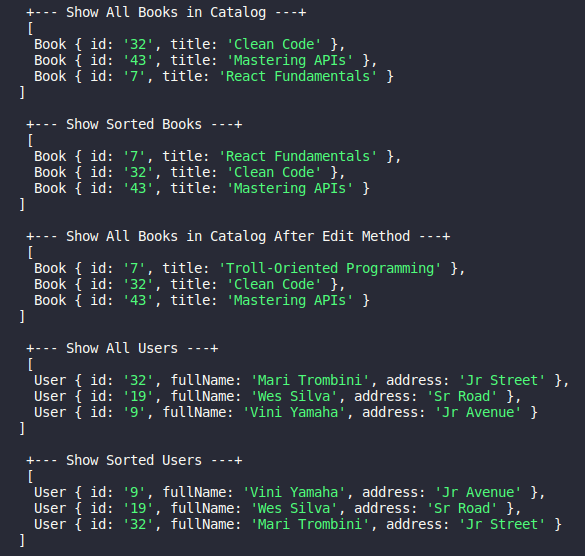
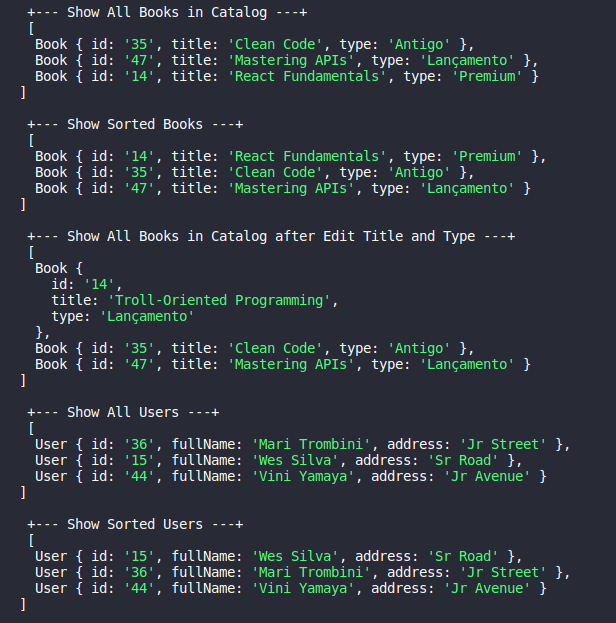
including type and refactoring edit method

diff --git a/src/index.ts b/src/index.ts
@@ -1,9 +1,25 @@
+import { BookService } from "Books/BookService";
 import { Facade } from "./Facade";
 
-const book1 = "Clean Code";
-const book2 = "Mastering APIs";
-const book3 = "React Fundamentals";
-const changedBook = "Troll-Oriented Programming";
+const book1 = {
+  title: "",
+  type: "",
+};
+
+const book2 = {
+  title: "",
+  type: "",
+};
+
+const book3 = {
+  title: "",
+  type: "",
+};
+
+const changedBook = {
+  title: "Troll-Oriented Programming",
+  type: "Lançamento",
+};
 
 const user1 = {
   fullName: "Mari Trombini",
@@ -22,9 +38,15 @@ const user3 = {
 
 //ADD BOOK
 const facade = new Facade();
-facade.addBookToCatalog(book1);
-facade.addBookToCatalog(book2);
-facade.addBookToCatalog(book3);
+facade.addBookToCatalog((book1.title = "Clean Code"), (book1.type = "Antigo"));
+facade.addBookToCatalog(
+  (book2.title = "Mastering APIs"),
+  (book2.type = "Lançamento")
+);
+facade.addBookToCatalog(
+  (book3.title = "React Fundamentals"),
+  (book3.type = "Premium")
+);
 
 //SHOW ALL BOOKS
 console.log(
@@ -39,14 +61,18 @@ console.log("\n +--- Show Sorted Books ---+ \n", facade.findSortedBooks());
 const bookId = facade.showAllBooksInCatalog()[0].id;
 const bookId2 = facade.showAllBooksInCatalog()[1].id;
 const bookId3 = facade.showAllBooksInCatalog()[2].id;
-facade.editBookInCatalog(bookId, changedBook);
 
 const bookTitle = facade.showAllBooksInCatalog()[0].title;
 const bookTitle2 = facade.showAllBooksInCatalog()[1].title;
 const bookTitle3 = facade.showAllBooksInCatalog()[2].title;
 
+const bookType = facade.showAllBooksInCatalog()[0].type;
+const bookType2 = facade.showAllBooksInCatalog()[1].type;
+const bookType3 = facade.showAllBooksInCatalog()[2].type;
+
+facade.editBookInCatalog(bookId, changedBook.title, changedBook.type);
 console.log(
-  "\n +--- Show All Books in Catalog After Edit Method ---+ \n",
+  "\n +--- Show All Books in Catalog after Edit Title and Type ---+ \n",
   facade.showAllBooksInCatalog()
 );
 
@@ -70,7 +96,8 @@ const rent1 = {
   userId: userId,
   userName: user1.fullName,
   bookId: bookId,
-  bookTitle: bookTitle,
+  bookTitle: changedBook.title,
+  bookType: changedBook.type,
   upto: "2022/05/13'",
 };
 
@@ -79,6 +106,7 @@ const rent2 = {
   userName: user2.fullName,
   bookId: bookId2,
   bookTitle: bookTitle2,
+  bookType: bookType2,
   upto: "2022/04/24'",
 };
 
@@ -87,6 +115,7 @@ const rent3 = {
   userName: user3.fullName,
   bookId: bookId3,
   bookTitle: bookTitle3,
+  bookType: bookType3,
   upto: "2022/06/30'",
 };
 
@@ -96,6 +125,7 @@ facade.rent(
   rent1.userName,
   rent1.bookId,
   rent1.bookTitle,
+  rent1.bookType,
   rent1.upto
 );
 
@@ -104,6 +134,7 @@ facade.rent(
   rent2.userName,
   rent2.bookId,
   rent2.bookTitle,
+  rent2.bookType,
   rent2.upto
 );
 
@@ -112,6 +143,7 @@ facade.rent(
   rent3.userName,
   rent3.bookId,
   rent3.bookTitle,
+  rent3.bookType,
   rent3.upto
 );
 

diff --git a/src/ILFacade/ILFacade.ts b/src/ILFacade/ILFacade.ts
@@ -8,7 +8,7 @@ export interface ILibraryFacade {
         - O 'title' deve ser menor que 100 caracteres
         - O 'title' não pode ser vazio ou nulo
     */
-  addBookToCatalog(title: string): void;
+  addBookToCatalog(title: string, type: string): void;
 
   /*
       Método utilizado para editar o título de um livro do catálogo da biblioteca
@@ -16,7 +16,7 @@ export interface ILibraryFacade {
         - O 'title' não pode ser vazio ou nulo
         - O 'id' do livro deve estar presente no catálogo
     */
-  editBookInCatalog(bookId: string, newTitle: string): void;
+  editBookInCatalog(bookId: string, newTitle: string, newType: string): void;
 
   /*
       Método utilizado para mostrar todos os livros cadastrados no catálogo
@@ -53,6 +53,7 @@ export interface ILibraryFacade {
     userName: string,
     bookId: string,
     bookTitle: string,
+    bookType: string,
     upto: string
   ): void;
 
@@ -64,4 +65,52 @@ export interface ILibraryFacade {
 
   // Método utilizado para ordenar os empréstimos
   findSortedRents(): Rent[];
+
+  /*
+  Método utilizado para mostrar o preço do aluguel do livro 'bookId'
+  do catálogo.
+ 
+   - O 'id' do livro deve estar presente no catálogo
+ 
+  Sobre o cálculo:
+ 
+  O cálculo do preço do livro é baseado no tipo de livro.
+  Cada livro tem um tipo que pode ser: 'Lançamento', 'Antigo' ou 'Premium'.
+ 
+  O cálculo dos lançamentos é o seguinte:
+       valor do aluguel em R$ = 0,05 * Número de Páginas
+ 
+  O cálculo dos antigos:
+
+ valor do aluguel em R$ = 5,00 + Ano do Livro / 100
+ 
+  O cálculo dos premiums:
+       Valor fixo de 40,00
+*/
+
+  showRentPrice(bookId: string): number;
+
+  /*
+   Método utilizado para mostrar a conta para um cliente.
+       - O 'id' do usuário deve estar presente no catálogo
+  
+   Deve mostrar um output semelhante a:
+       Usuário: Wesley | Ação: Ver conta
+ 
+       Total a pagar: R$ 71,23
+ 
+       Aluguéis:
+       1. Nome do livro | R$ 40,00 | A pagar
+       2. Nome do livro 2 | R$ 31,23 | A pagar
+       3. Nome do livro 3 | R$ 40,00 | Pago
+ 
+   A listagem deve ser do aluguel mais recente para o aluguel mais antigo
+ */
+  showBillingHistory(userId: string): string;
+
+  /*
+   Método utilizado para que um cliente pague um aluguel.
+       - O 'id' do aluguel deve existir
+ */
+  pay(rentId: string): void;
 }

diff --git a/src/Facade.ts b/src/Facade.ts
@@ -7,12 +7,13 @@ import { RentService } from "../src/Rent/RentService";
 import { UserService } from "../src/Users/UserService";
 
 export class Facade implements ILibraryFacade {
-  addBookToCatalog(title: string): void {
-    BookService.getInstance().add(title);
+  addBookToCatalog(title: string, type: string): void {
+    BookService.getInstance().add(title, type);
   }
-  editBookInCatalog(bookId: string, newTitle: string): void {
-    BookService.getInstance().edit(bookId, newTitle);
+  editBookInCatalog(bookId: string, newTitle: string, newType: string): void {
+    BookService.getInstance().edit(bookId, newTitle, newType);
   }
+
   showAllBooksInCatalog(): Book[] {
     return BookService.getInstance().showAll();
   }
@@ -33,14 +34,34 @@ export class Facade implements ILibraryFacade {
     userName: string,
     bookId: string,
     bookTitle: string,
+    bookType: string,
     upto: string
   ): void {
-    RentService.getInstance().rent(userId, userName, bookId, bookTitle, upto);
+    RentService.getInstance().rent(
+      userId,
+      userName,
+      bookId,
+      bookTitle,
+      bookType,
+      upto
+    );
   }
   showAllRentings(): Rent[] {
     return RentService.getInstance().showRentings();
   }
   findSortedRents(): Rent[] {
     return RentService.getInstance().showSortedRentings();
+  }
+  showRentPrice(bookId: string): number {
+    // return RentService.getInstance().showRentPrice();
+    return 0;
+  }
+  showBillingHistory(userId: string): string {
+    return "method doest exists";
+
+    // return RentService.getInstance().showBillingHistory();
+  }
+  pay(rentId: string): void {
+    //  RentService.getInstance().pay();
   }
 }

diff --git a/src/Books/Book.ts b/src/Books/Book.ts
@@ -1,20 +1,25 @@
 const LIMITCHARACTERS = 100;
+const LIMITTYPECHARACTERS = 35;
 
 export class Book {
   id: string;
   title: string;
-  constructor(id: string, title: string) {
+  type: string;
+  constructor(id: string, title: string, type: string) {
     if (title.length >= LIMITCHARACTERS) {
       throw new Error(
         `Title must be less than ${LIMITCHARACTERS} characters! Limit exceeded!`
       );
     } else if (!title) {
       throw new Error(`Title not found. You must provide a valid title!`);
+    } else if (!type) {
+      throw new Error(`Type not found. You must provide a valid type!`);
     }
     this.id = id;
     this.title = title;
+    this.type = type;
   }
-  setTitle(newTitle: string): void {
+  setTitleType(newTitle: string, newType: string): void {
     if (newTitle.length >= LIMITCHARACTERS) {
       throw new Error(
         `Title must be less than ${LIMITCHARACTERS} characters! Limit exceeded!`
@@ -25,5 +30,6 @@ export class Book {
       );
     }
     this.title = newTitle;
+    this.type = newType;
   }
 }

diff --git a/src/Books/BookService.ts b/src/Books/BookService.ts
@@ -10,11 +10,12 @@ export class BookService {
     }
     return BookService.instance;
   }
-  add(title: string) {
+  add(title: string, type: string) {
     try {
       const book = new Book(
         Math.trunc(Math.random() * 50 + 1).toString(),
-        title
+        title,
+        type
       );
       this.books.push(book);
       return book;
@@ -25,10 +26,10 @@ export class BookService {
   showAll(): Book[] {
     return this.books;
   }
-  edit(id: string, title: string) {
+  edit(id: string, title: string, type: string) {
     const editedBook = this.books.forEach((book) => {
       if (book.id === id) {
-        book.setTitle(title);
+        book.setTitleType(title, type);
       }
     });
     try {
@@ -37,6 +38,7 @@ export class BookService {
       throw new Error(`BookService: ${error}`);
     }
   }
+
   sort(): Book[] {
     const booksCopy = this.books;
     for (let i = 0; i < booksCopy.length - 1; i++) {

diff --git a/src/Rent/Rent.ts b/src/Rent/Rent.ts
@@ -3,6 +3,7 @@ export class Rent {
   userName: string;
   bookId: string;
   bookTitle: string;
+  bookType: string;
   upto: string;
 
   constructor(
@@ -10,12 +11,14 @@ export class Rent {
     userName: string,
     bookId: string,
     bookTitle: string,
+    bookType: string,
     upto: string
   ) {
     this.userId = userId;
     this.userName = userName;
     this.bookId = bookId;
     this.bookTitle = bookTitle;
+    this.bookType = bookType;
     this.upto = upto;
   }
 }

diff --git a/src/Rent/RentService.ts b/src/Rent/RentService.ts
@@ -15,10 +15,18 @@ export class RentService {
     userName: string,
     bookId: string,
     bookTitle: string,
+    bookType: string,
     upto: string
   ) {
     try {
-      const rentBook = new Rent(userId, userName, bookId, bookTitle, upto);
+      const rentBook = new Rent(
+        userId,
+        userName,
+        bookId,
+        bookTitle,
+        bookType,
+        upto
+      );
       this.rents.push(rentBook);
       return rentBook;
     } catch (error) {
